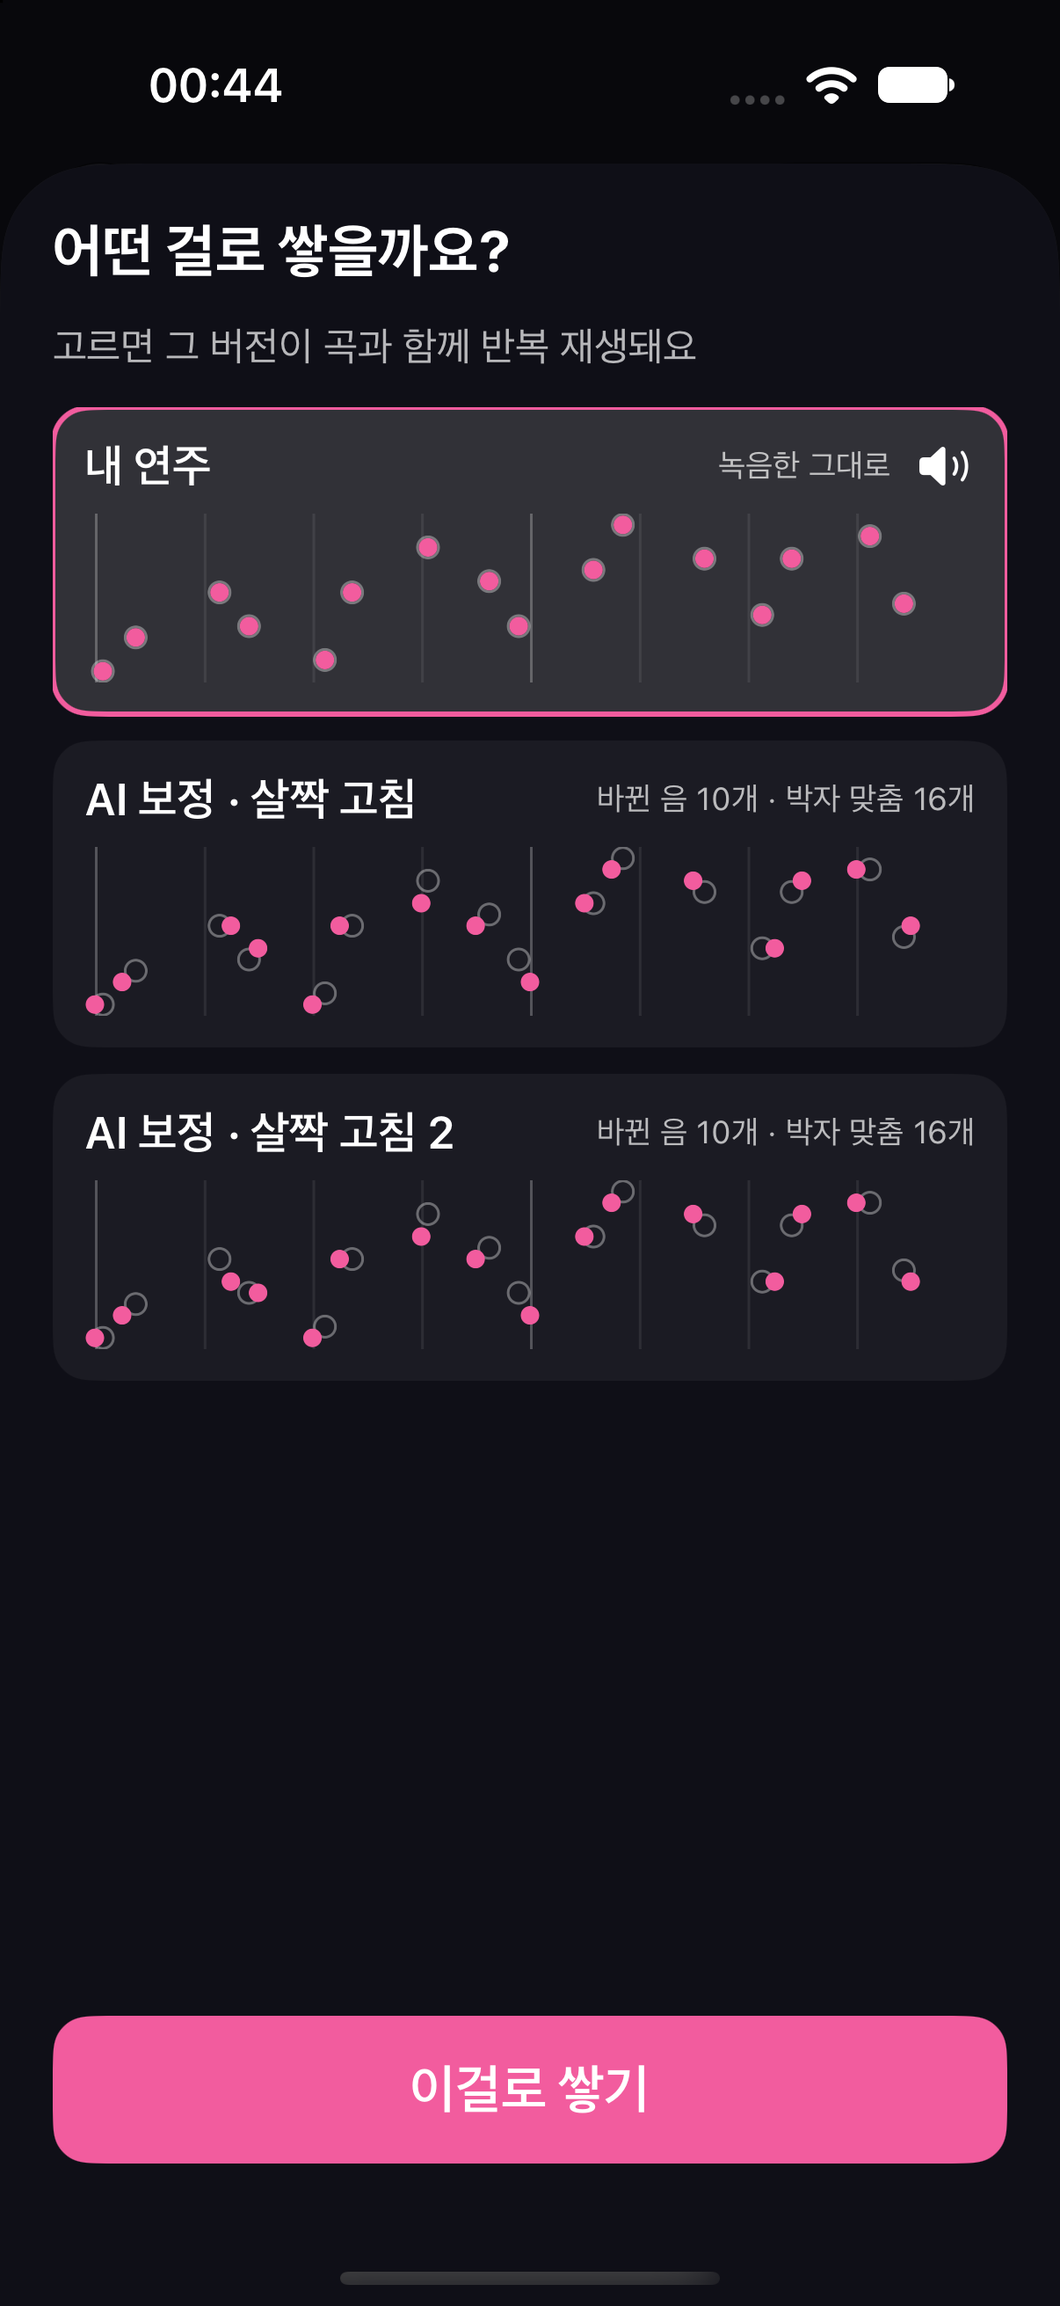
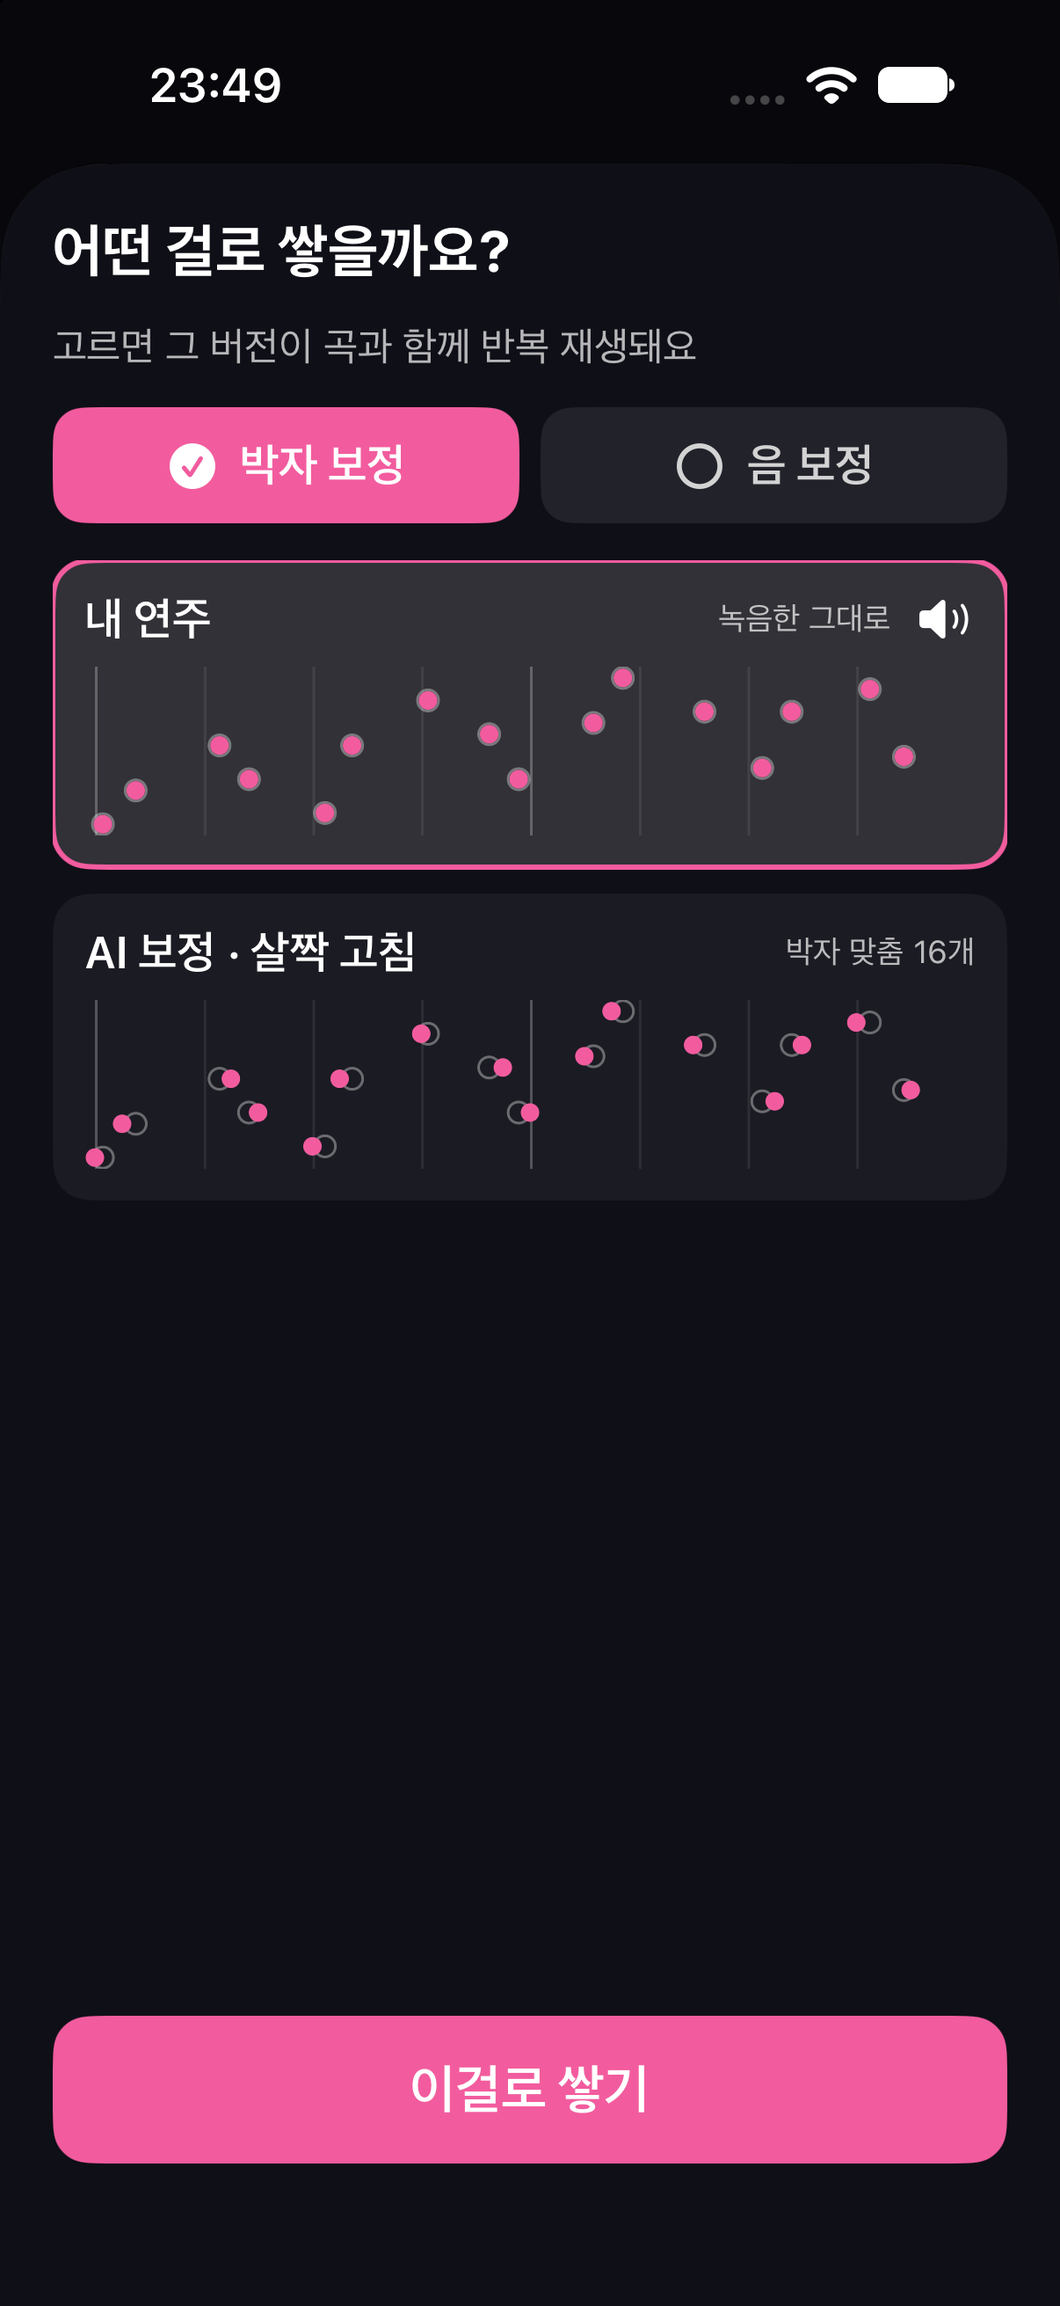
Split AI correction into timing and pitch (G9), timing-only by default
- CorrectionOptions(timing:pitch:): timing-only never changes pitches, pitch-only never moves onsets
- Pitch hard metrics (scale / strong-beat chord tones) only when pitch correction is on
- CompareSheet: 박자 보정 / 음 보정 toggles (remembered), drums timing only, recompute off main
- Plan §2 G9 + changelog; 83 tests pass

diff --git a/LoopCore/Sources/LoopCore/Corrector.swift b/LoopCore/Sources/LoopCore/Corrector.swift
@@ -1,16 +1,27 @@
 /// S2 corrector, plan §3(b) B3b: the role's n-gram model decodes each note's grid position and pitch
 /// inside the G3 mask (in scale; chord tone on beats 1·3; drums keep their pad), by beam search.
 /// Runtime: 4 candidates (2 weak, 2 strong) -> Metrics filter -> top 2 by F1 vs the input, or none.
+/// G9: timing and pitch correction are separate switches (default: timing only).
+public struct CorrectionOptions: Sendable, Hashable {
+    public var timing: Bool
+    public var pitch: Bool
+    public init(timing: Bool = true, pitch: Bool = false) { self.timing = timing; self.pitch = pitch }
+}
+
 public enum Corrector {
     public struct Context: Sendable {
         public var drums: Bool
         public var key: Key
         public var progression: Progression
         public var bars: Int
-        public init(drums: Bool, key: Key, progression: Progression, bars: Int) {
-            self.drums = drums; self.key = key; self.progression = progression; self.bars = bars
+        public var options: CorrectionOptions
+        public init(drums: Bool, key: Key, progression: Progression, bars: Int,
+                    options: CorrectionOptions = .init(timing: true, pitch: true)) {
+            self.drums = drums; self.key = key; self.progression = progression; self.bars = bars; self.options = options
         }
         var span: Int64 { Int64(bars) * Progression.ticksPerBar }
+        var timing: Bool { options.timing }
+        var pitch: Bool { options.pitch && !drums }  // drums: a pad is never "corrected" to another pad
     }
     public enum Strength: Sendable { case weak, strong }
     public struct Candidate: Sendable {
@@ -48,9 +59,10 @@ public enum Corrector {
 
     /// Compare-sheet entry (AC10): the role's bundled model on a recorded take. Same filter as `suggest`, minus
     /// candidates identical to the take or to an earlier one (nothing to compare). Synchronous: call off main.
-    public static func suggest(for take: LoopTrack, key: Key, progression: Progression) throws -> [Candidate] {
+    public static func suggest(for take: LoopTrack, key: Key, progression: Progression,
+                               options: CorrectionOptions = .init(timing: true, pitch: true)) throws -> [Candidate] {
         let model = try NGramModel.load(role: take.role.rawValue)
-        let context = Context(drums: take.role == .drums, key: key, progression: progression, bars: take.bars)
+        let context = Context(drums: take.role == .drums, key: key, progression: progression, bars: take.bars, options: options)
         let order: (Note, Note) -> Bool = { ($0.tick, $0.pitch) < ($1.tick, $1.pitch) }
         var seen = [take.notes.sorted(by: order)]
         return suggest(take.notes, context: context, model: model).filter {
@@ -66,7 +78,7 @@ public enum Corrector {
         candidates(input, context: context, model: model, settings: settings)
     }
     static func candidates(_ input: [Note], context: Context, model: NGramModel, settings: [Setting]) -> [Candidate] {
-        guard !input.isEmpty else { return [] }
+        guard !input.isEmpty, context.timing || context.pitch else { return [] }
         return settings.compactMap { s in
             decode(input, context: context, model: model, setting: s).map {
                 Candidate(notes: $0, strength: s.strength,
@@ -76,14 +88,15 @@ public enum Corrector {
     }
 
     /// Hard metrics (G3 + count ±20%) and statistical thresholds (grid ratio, F1 vs input) per strength.
+    /// G9: G3 only when pitch correction is on, grid ratio only when timing correction is on.
     public static func passes(_ c: Candidate, input: [Note], context: Context) -> Bool {
-        if !context.drums {
+        if context.pitch {
             guard Metrics.allInScale(c.notes, key: context.key),
                   Metrics.strongBeatsAreChordTones(c.notes, progression: context.progression) else { return false }
         }
         guard Metrics.countChange(candidate: c.notes, original: input) <= maxCountChange else { return false }
         let (grid, f1) = c.strength == .weak ? (0.6, 0.85) : (0.2, 0.65)
-        return Metrics.gridErrorRatio(candidate: c.notes, original: input) <= grid && c.f1 >= f1
+        return (!context.timing || Metrics.gridErrorRatio(candidate: c.notes, original: input) <= grid) && c.f1 >= f1
     }
 
     /// Ablation baseline (no model): snap to nearest 16th, nearest allowed pitch, drop exact duplicates.
@@ -118,6 +131,7 @@ public enum Corrector {
         let maxDelta = Int(Double(notes.count) * maxCountChange)
         var beam = [State(context: Array(repeating: "<s>", count: model.order - 1))]
         for n in notes {
+            if Task.isCancelled { return nil }
             var next: [String: State] = [:]
             func push(_ st: State) {
                 let k = st.key
@@ -128,8 +142,8 @@ public enum Corrector {
                 if abs(st.delta - 1) <= maxDelta {
                     var d = st; d.delta -= 1; d.score -= s.deletion; push(d)
                 }
-                for g in gridOptions(n.tick, span: ctx.span) where g >= st.lastTick {
-                    for p in pitchOptions(n.pitch, at: g, context: ctx) where g > st.lastTick || p > st.lastPitch {
+                for g in ctx.timing ? gridOptions(n.tick, span: ctx.span) : [n.tick] where g >= st.lastTick {
+                    for p in ctx.pitch ? pitchOptions(n.pitch, at: g, context: ctx) : [n.pitch] where g > st.lastTick || p > st.lastPitch {
                         let (tok, deg) = token(tick: g, pitch: p, prevDegree: st.prevDegree, context: ctx)
                         var k = st
                         k.score += model.logProb(tok, context: st.context)
@@ -154,7 +168,8 @@ public enum Corrector {
     // MARK: helpers (token definition mirrors tools/train/train.py `tokens`)
 
     static func sortedInput(_ input: [Note], context: Context) -> [Note] {
-        input.sorted { (nearestGrid($0.tick, span: context.span), $0.pitch) < (nearestGrid($1.tick, span: context.span), $1.pitch) }
+        guard context.timing else { return input.sorted { ($0.tick, $0.pitch) < ($1.tick, $1.pitch) } }  // onsets stay as played
+        return input.sorted { (nearestGrid($0.tick, span: context.span), $0.pitch) < (nearestGrid($1.tick, span: context.span), $1.pitch) }
     }
     static func nearestGrid(_ t: Int64, span: Int64) -> Int64 {
         let q = Metrics.sixteenth
@@ -182,11 +197,11 @@ public enum Corrector {
         let step = max(-14, min(14, d - prev))
         return ("\(pos):\(step >= 0 ? "+" : "")\(step)", d)
     }
-    /// Scale degree counted from the key root (7 per octave); pitch must be in scale.
+    /// Scale degree counted from the key root (7 per octave); an out-of-scale pitch (timing-only) takes the degree below.
     static func degree(_ pitch: Int, key: Key) -> Int {
         let steps = key.mode == .major ? [0, 2, 4, 5, 7, 9, 11] : [0, 2, 3, 5, 7, 8, 10]
         let rel = pitch - key.root
         let oct = rel >= 0 ? rel / 12 : -((-rel + 11) / 12)
-        return oct * 7 + steps.firstIndex(of: rel - oct * 12)!
+        return oct * 7 + steps.lastIndex { $0 <= rel - oct * 12 }!
     }
 }

diff --git a/App/Views/CompareSheet.swift b/App/Views/CompareSheet.swift
@@ -1,10 +1,11 @@
 import LoopCore
 import SwiftUI
 
-/// A finished take waiting for the user's pick; `options` is nil while the Corrector runs.
+/// A finished take waiting for the user's pick, with the song context the Corrector needs.
 struct Compare: Identifiable {
     var take: LoopTrack
-    var options: [Corrector.Candidate]?
+    var key: Key
+    var progression: Progression
     var id: UUID { take.id }
 }
 
@@ -17,10 +18,17 @@ struct CompareSheet: View {
     let song: [LoopTrack]
     let keep: (LoopTrack) -> Void
     @State private var selected = 0
+    /// nil while the Corrector runs.
+    @State private var options: [Corrector.Candidate]?
+    /// G9: timing and pitch correction are separate, remembered switches; timing only by default.
+    @AppStorage("correctTiming") private var timing = true
+    @AppStorage("correctPitch") private var pitch = false
+    private var drums: Bool { compare.take.role == .drums }
+    private var correction: CorrectionOptions { .init(timing: timing, pitch: pitch && !drums) }
 
     private var versions: [(title: String, detail: String, track: LoopTrack)] {
         var out = [("내 연주", "녹음한 그대로", compare.take)]
-        var options = compare.options ?? []
+        var options = self.options ?? []
         // Options come best-F1 first; two that differ by at most one note aren't worth comparing.
         if options.count == 2 && Self.differ(options[0].notes, options[1].notes) <= 1 { options.removeLast() }
         for c in options {
@@ -49,7 +57,9 @@ struct CompareSheet: View {
             if m.pitch != n.pitch { pitch += 1 }
             if m.tick != n.tick { moved += 1 }
         }
-        var parts = ["바뀐 음 \(pitch)개", "박자 맞춤 \(moved)개"]
+        var parts: [String] = []
+        if correction.pitch { parts.append("바뀐 음 \(pitch)개") }
+        if correction.timing { parts.append("박자 맞춤 \(moved)개") }
         if take.count > notes.count { parts.append("뺀 음 \(take.count - notes.count)개") }
         return parts.joined(separator: " · ")
     }
@@ -61,19 +71,23 @@ struct CompareSheet: View {
             Text("어떤 걸로 쌓을까요?").font(.title2.bold()).frame(maxWidth: .infinity, alignment: .leading)
             Text("고르면 그 버전이 곡과 함께 반복 재생돼요").font(.subheadline).foregroundStyle(.white.opacity(0.7))
                 .frame(maxWidth: .infinity, alignment: .leading)
+            HStack(spacing: 8) {
+                toggle("박자 보정", $timing)
+                if !drums { toggle("음 보정", $pitch) }
+            }
             ScrollView {
                 VStack(spacing: 10) {
                     ForEach(versions.indices, id: \.self) { i in
                         row(i, versions[i].title, versions[i].detail, versions[i].track)
                     }
-                    if compare.options == nil {
+                    if options == nil {
                         HStack(spacing: 10) {
                             ProgressView()
                             Text("AI가 고쳐 보는 중…")
                         }
                         .frame(maxWidth: .infinity, minHeight: 56)
-                    } else if compare.options?.isEmpty == true {
-                        Text("이번엔 보정안이 없어요")
+                    } else if options?.isEmpty == true {
+                        Text(correction.timing || correction.pitch ? "이번엔 보정안이 없어요" : "보정을 하나 이상 켜 주세요")
                             .frame(maxWidth: .infinity, minHeight: 56)
                             .foregroundStyle(.white.opacity(0.7))
                     }
@@ -94,6 +108,32 @@ struct CompareSheet: View {
         .interactiveDismissDisabled()
         .onAppear(perform: audition)
         .onChange(of: selected, audition)
+        .task(id: correction) { await suggest() }
+    }
+
+    /// AC10: the Corrector runs off main; a toggle change cancels the run in flight (`task(id:)`) and starts over.
+    private func suggest() async {
+        options = nil
+        selected = 0
+        let take = compare.take, key = compare.key, progression = compare.progression, correction = correction
+        let work = Task.detached(priority: .userInitiated) {
+            (try? Corrector.suggest(for: take, key: key, progression: progression, options: correction)) ?? []
+        }
+        let result = await withTaskCancellationHandler { await work.value } onCancel: { work.cancel() }
+        guard !Task.isCancelled else { return }
+        options = result
+        audition()
+    }
+
+    private func toggle(_ title: String, _ on: Binding<Bool>) -> some View {
+        Button { on.wrappedValue.toggle() } label: {
+            Label(title, systemImage: on.wrappedValue ? "checkmark.circle.fill" : "circle")
+                .font(.headline)
+                .frame(maxWidth: .infinity, minHeight: 44)
+                .background(on.wrappedValue ? compare.take.role.color : .white.opacity(0.08), in: .rect(cornerRadius: 12))
+                .foregroundStyle(on.wrappedValue ? .white : .white.opacity(0.8))
+        }
+        .accessibilityAddTraits(on.wrappedValue ? .isSelected : [])
     }
 
     private func audition() {

diff --git a/LoopCore/Tests/LoopCoreTests/CorrectorTests.swift b/LoopCore/Tests/LoopCoreTests/CorrectorTests.swift
@@ -88,3 +88,46 @@ private func n(_ t: Int64, _ p: Int) -> Note { Note(tick: t, pitch: p) }
     let stuck = LoopTrack(role: .melody, bars: 1, notes: Array(repeating: n(0, 60), count: 10))
     #expect(try Corrector.suggest(for: stuck, key: cMaj, progression: .cGAmF).isEmpty)
 }
+
+/// G9: timing-only never changes a pitch, pitch-only never moves an onset, neither -> nothing.
+@Test func correctionOptionsSplitTimingAndPitch() throws {
+    var rng = SystemRandomNumberGenerator()
+    let key = { (n: Note) in [n.tick, Int64(n.pitch)] }
+    for role in SongRole.allCases {
+        let drums = role == .drums
+        for _ in 0..<10 {
+            let notes = (0..<12).map { i in
+                n(max(0, Int64(i) * 160 + Int64.random(in: -70...70, using: &rng)), drums ? Int.random(in: 0..<6, using: &rng)
+                    : Int.random(in: Timbres.range[role] ?? 60...81, using: &rng))
+            }
+            let take = LoopTrack(role: role, bars: 1, notes: notes)
+            let ticks = Set(notes.map(\.tick)), pitches = Set(notes.map(\.pitch))
+            let model = try NGramModel.load(role: role.rawValue)
+            let timing = Corrector.Context(drums: drums, key: cMaj, progression: .cGAmF, bars: 1, options: .init(timing: true, pitch: false))
+            for c in Corrector.candidates(notes, context: timing, model: model) {
+                // every output note keeps the pitch of an input note it came from: the multiset of pitches only shrinks
+                var left = notes.map(\.pitch)
+                for p in c.notes.map(\.pitch) {
+                    #expect(left.firstIndex(of: p).map { left.remove(at: $0) } != nil)
+                }
+                #expect(c.notes.allSatisfy { $0.tick % Metrics.sixteenth == 0 })
+            }
+            let pitchOnly = Corrector.Context(drums: drums, key: cMaj, progression: .cGAmF, bars: 1, options: .init(timing: false, pitch: true))
+            for c in Corrector.candidates(notes, context: pitchOnly, model: model) {
+                #expect(c.notes.allSatisfy { ticks.contains($0.tick) })
+                if drums { #expect(c.notes.allSatisfy { pitches.contains($0.pitch) }) }
+            }
+            for c in try Corrector.suggest(for: take, key: cMaj, progression: .cGAmF, options: .init(timing: false, pitch: true)) {
+                #expect(Set(c.notes.map(key)) != Set(notes.map(key)))
+                #expect(c.notes.allSatisfy { ticks.contains($0.tick) })
+            }
+            #expect(try Corrector.suggest(for: take, key: cMaj, progression: .cGAmF, options: .init(timing: false, pitch: false)).isEmpty)
+        }
+    }
+    // timing-only also passes takes with out-of-scale notes through, pitches untouched (G3 not applied)
+    let offKey = (0..<8).map { n(Int64($0) * 240 + 40, [61, 63, 66, 68][$0 % 4]) }
+    let take = LoopTrack(role: .melody, bars: 1, notes: offKey)
+    for c in try Corrector.suggest(for: take, key: cMaj, progression: .cGAmF, options: CorrectionOptions()) {
+        #expect(c.notes.allSatisfy { [61, 63, 66, 68].contains($0.pitch) })
+    }
+}

diff --git a/App/Views/LoopStationView.swift b/App/Views/LoopStationView.swift
@@ -95,16 +95,9 @@ struct LoopStationView: View {
         do { try songStore.save(s) } catch { print("song save failed: \(error)") }
     }
 
-    /// AC10: the Corrector runs off main; the sheet shows the take (auditioning) with a progress row meanwhile.
+    /// AC10: the sheet runs the Corrector off main and shows the take (auditioning) with a progress row meanwhile.
     private func startCompare(_ take: LoopTrack) {
-        compare = Compare(take: take)
-        let key = song.key, progression = song.progression
-        Task {
-            let options = await Task.detached(priority: .userInitiated) {
-                (try? Corrector.suggest(for: take, key: key, progression: progression)) ?? []
-            }.value
-            if compare?.id == take.id { compare?.options = options }
-        }
+        compare = Compare(take: take, key: song.key, progression: song.progression)
     }
 
     private var next: SongRole {

diff --git a/.omc/plans/music-loop-game-plan.md b/.omc/plans/music-loop-game-plan.md
@@ -41,6 +41,7 @@ ADR(§9)은 G1~G3 답에 따라 갈라진다.
 - **G6 → Recommender가 S2에 실패하거나 평가 불가(n<30)면 고정 순서 규칙으로 v1 출시**, 갤러리에 올라온 곡의 트랙 추가 순서로 데이터를 모아 업데이트 때 모델로 교체. 보정 AI(B3b)는 v1에 그대로 출시
 - **G7 비용 (2026-11-03) → 무료로 개발, Apple Developer Program($99/년) 결제는 출시 직전에 결정.** Phase 0~4는 무료 개인 팀(내 기기 설치, 7일마다 재서명, 기기 3대·기기당 앱 3개)으로 진행. CloudKit·Game Center가 필요한 S3·Phase 5는 결제 결정 뒤로 이동. 결제하지 않기로 하면 갤러리·랭킹·Game Center 없이 개인 기기용으로 남김
 - **G8 연주 UI (2026-11-03) → 패드 악기 모양이 기본 + 설정에서 건반으로 전환.** 드럼 = 킷 패드. 베이스·멜로디 = 현재 키의 음계 음만 배치한 패드(음계 밖 음 없음), 코드 = 패드 1개당 코드 1개(진행의 다이어토닉 3화음). 건반 모드는 12음 전체라 음계 밖 음을 칠 수 있음 → 녹음 직후 AI 보정안이 G3 안으로 고쳐 제안(기존 흐름 그대로), 스테이지 따라 치기에서는 틀린 음 = Miss. Phase 2~3 체감 확인: 사용자가 iPhone 15 Pro에서 측정 화면을 쳐 보고 '늦게 느껴지지 않음' → 루프백 생략
+- **G9 (2026-11-04, 사용자) → AI 보정을 박자 보정/음 보정으로 분리, 기본은 박자만.** 음 보정이 꺼져 있으면 G3 음계·코드톤 하드 지표는 적용하지 않음(AC11은 음 보정을 켰을 때만)
 
 ## 3. RALPLAN-DR 요약
 
@@ -329,3 +330,6 @@ game/
 
 ### 게이트 결정 반영 (2026-11-03)
 - G1~G6 사용자 답을 §2 "게이트 결정"과 ADR에 반영 (B3b / P95 / 음계+강박 코드톤 / iPhone 15 Pro·iPad Air 5 / 표 승인 / 고정 순서 v1 출시)
+
+### AI 보정 분리 (2026-11-04)
+- G9 추가: `CorrectionOptions(timing, pitch)` — 박자만이면 음높이 고정, 음만이면 시작 위치 고정, 둘 다 끄면 보정안 없음. 비교 시트에 "박자 보정"(기본 켬)/"음 보정"(기본 끔, 드럼은 숨김) 토글, 마지막 상태 기억
